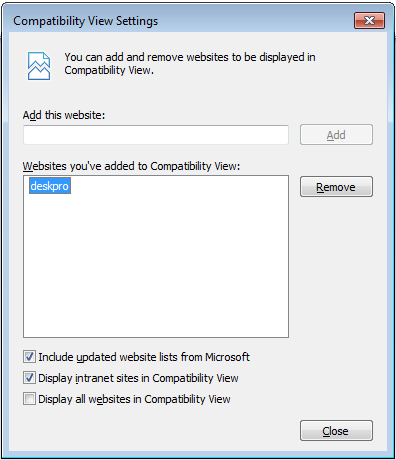
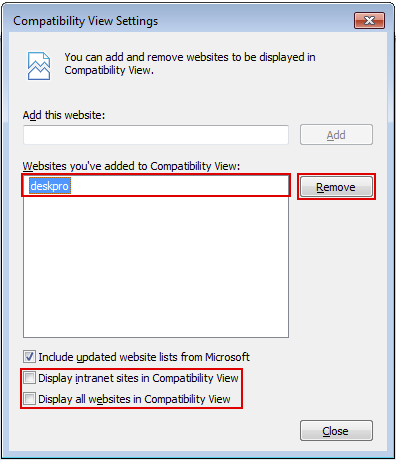
Update IE compat disable instructions to mention unchecking the 'always display in compat mode' options, and add detection for chromeframe and link to chrome frame site when bad IE version was detected

diff --git a/app/languages/default/agent/login.php b/app/languages/default/agent/login.php
@@ -13,9 +13,9 @@
 	'agent.login.ie_compat_mode_explain'     => 'Some versions of IE have a feature called Compatibility Mode meant to make old websites work with the newest browser technology. Sometimes this feature can be turned on erroneously. If you are using IE8 or IE9 but you still see the browser requirements page, it is probable that Compatibility Mode is enabled. To use DeskPRO you need to disable this feature:',
 	'agent.login.ie_compat_mode_step1'       => 'If the Tools menu is not already visible, press the Alt key on your keyboard to reveal the main menu',
 	'agent.login.ie_compat_mode_step2'       => 'From the Tools menu choose Compatibility View Setttings',
-	'agent.login.ie_compat_mode_step3'       => 'Locate this website URL in the list and click the Remove button',
+	'agent.login.ie_compat_mode_step3'       => 'Make sure your helpdesk URL is not in the list. If it is, click it and then click the Remove button. Also make sure "Display all websites in Compatibility View" is disabled. If you are using DeskPRO in an intranet, you must also uncheck the other option, "Display intranet sites in Compatibility View."',
 	'agent.login.ie_compat_mode_step4'       => 'Close this window and refresh the page',
-	'agent.login.ie_compat_mode_title'       => 'Are you already using IE8 or later? <a href="{{url}}">Make sure Compatibility Mode is not enabled.</a>',
+	'agent.login.ie_compat_mode_title'       => 'Are you already using IE8 or later? <a href="{{url}}">Make sure Compatibility Mode is not enabled</a>',
 	'agent.login.login_failed'               => 'Invalid login. Please try again.',
 	'agent.login.mozilla_firefox'            => 'Mozilla Firefox',
 	'agent.login.notice_outdated_browser'    => 'The admin and agent interfaces require a modern browser. We have detected that your browser is too outdated to use DeskPRO. Upgrade your browser to the latest version, or try downloading an alternative browser.',

diff --git a/app/src/Application/DeskPRO/HttpFoundation/UserAgentRequirementCheck.php b/app/src/Application/DeskPRO/HttpFoundation/UserAgentRequirementCheck.php
@@ -54,7 +54,9 @@ class UserAgentRequirementCheck
 		} elseif ($browser->getBrowser() == \Browser::BROWSER_OPERA && $browser->getVersion() < 11) {
 			return false;
 		} elseif ($browser->getBrowser() == \Browser::BROWSER_IE && $browser->getVersion() < 8) {
-			return false;
+			if (!$browser->isChromeFrame()) {
+				return false;
+			}
 		}
 
 		// Unknown browsers we'll err on the lenient side and assume
